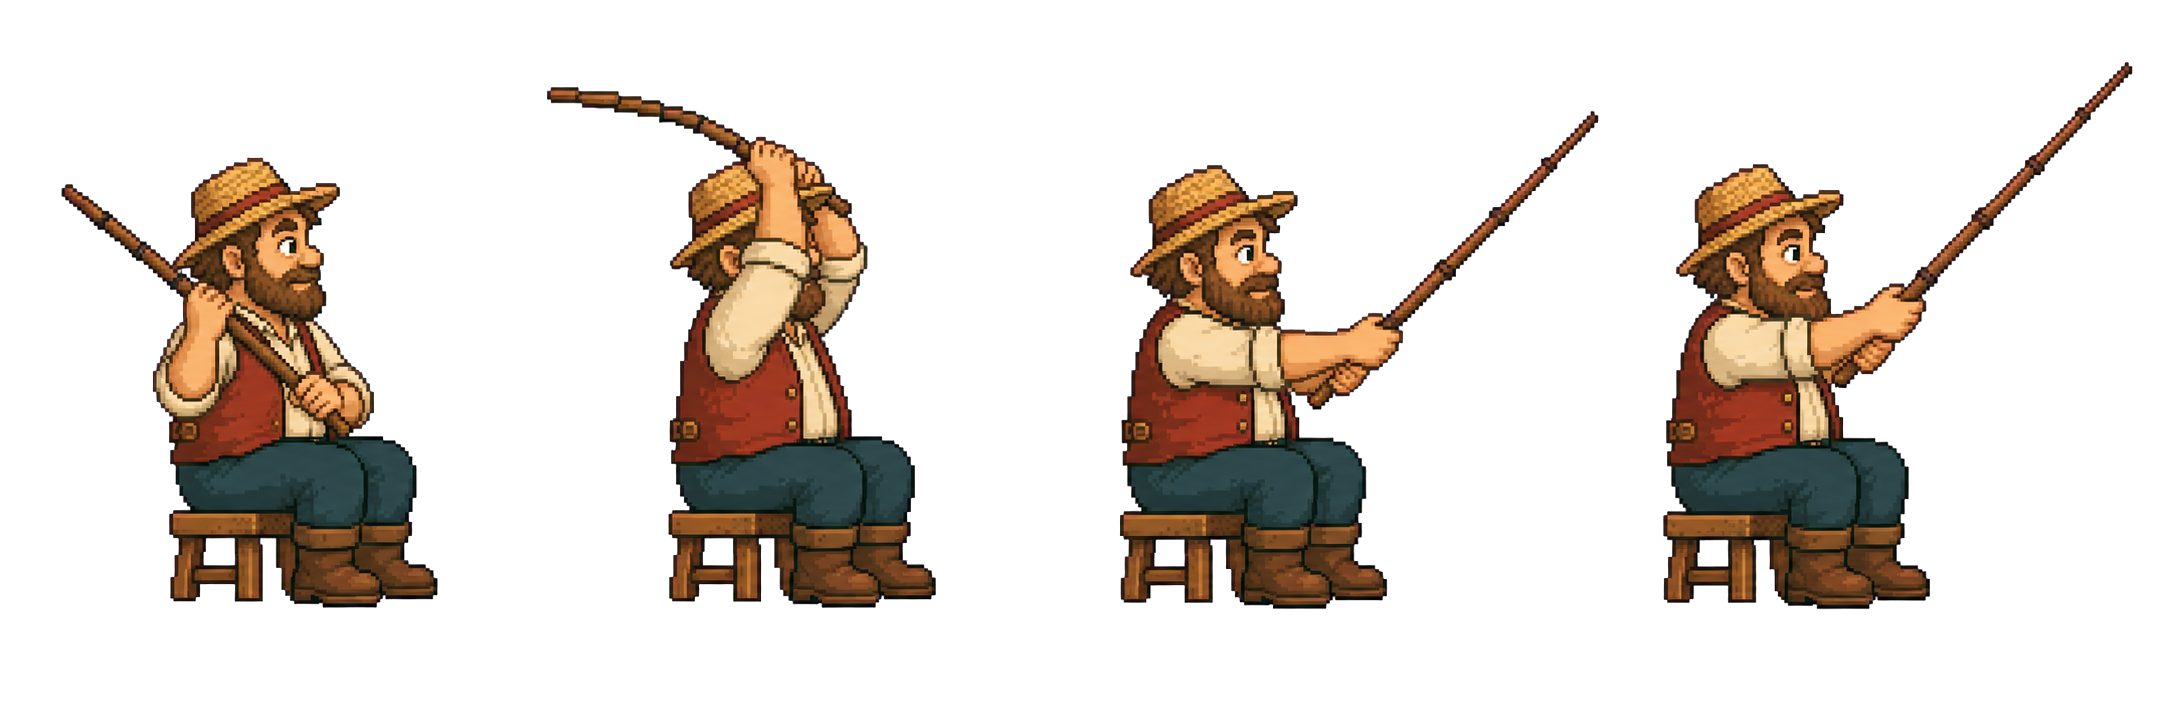
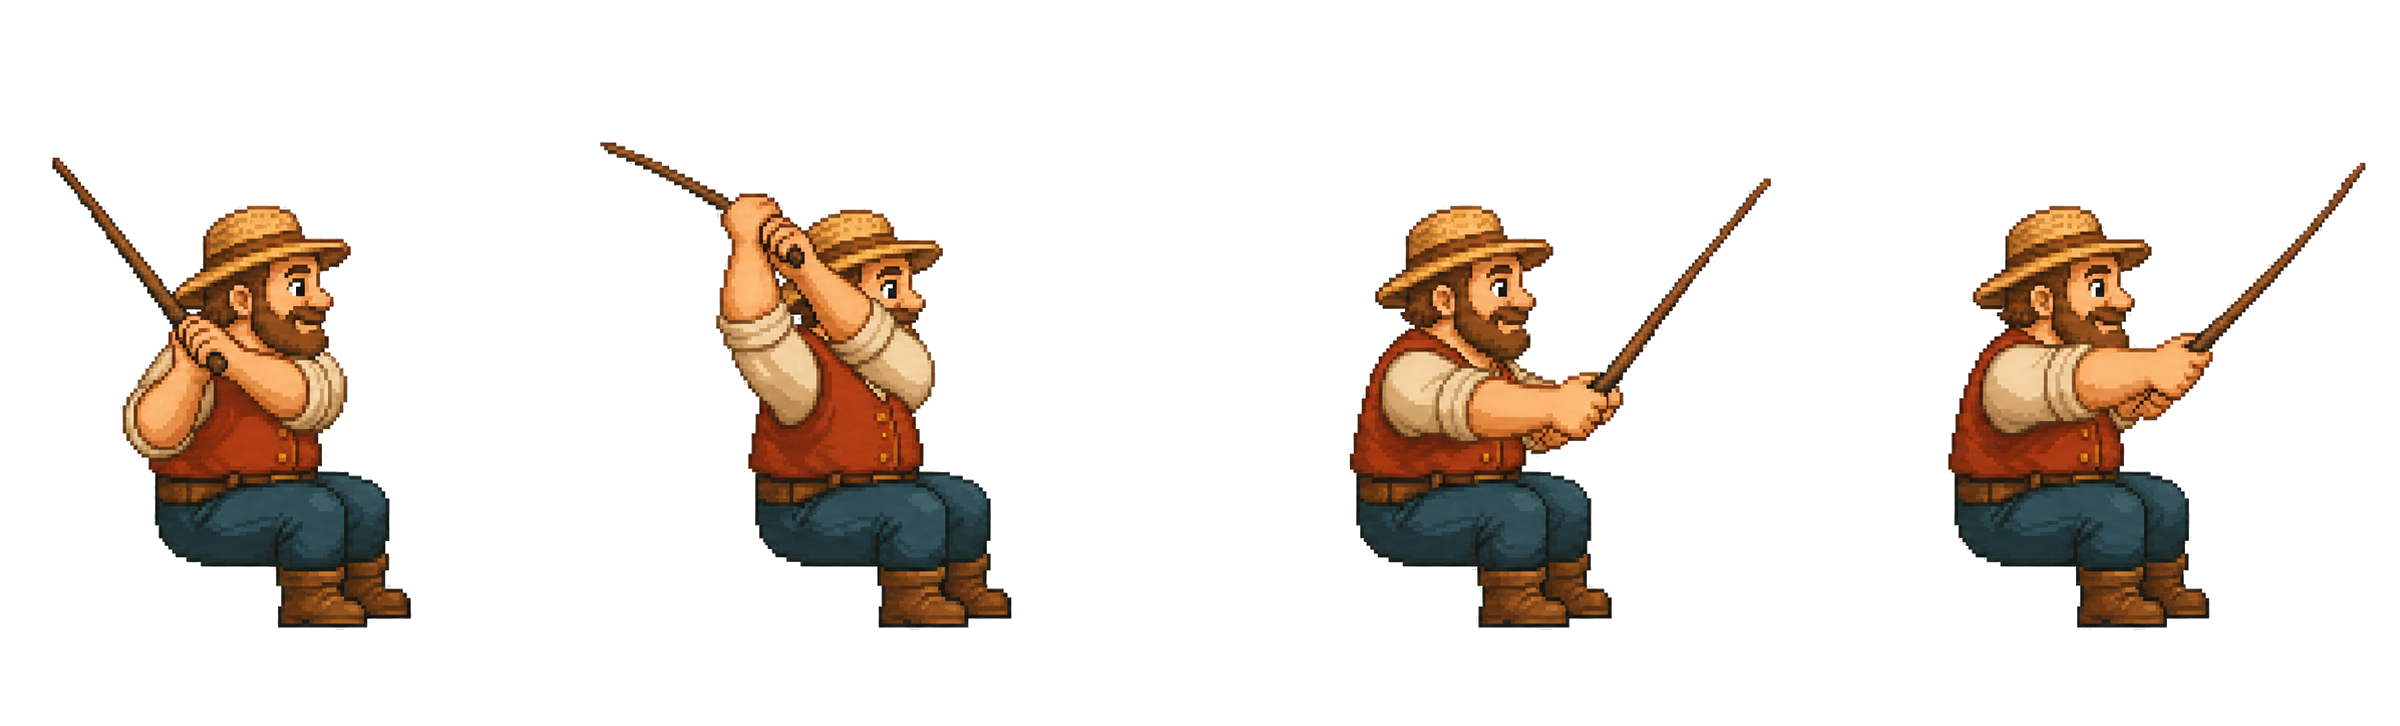
Stabilize fishing animation frames

diff --git a/webapp/src/fishing.ts b/webapp/src/fishing.ts
@@ -181,11 +181,12 @@ function updateFishingLine(): void {
   const sceneRect = scene.getBoundingClientRect();
   const fisherRect = fisher.getBoundingClientRect();
   const bobberRect = lakeBobber.getBoundingClientRect();
-  const startX = fisherRect.left - sceneRect.left + fisherRect.width * 0.91;
-  const startY = fisherRect.top - sceneRect.top + fisherRect.height * 0.2;
+  const startX = fisherRect.left - sceneRect.left + fisherRect.width * 0.94;
+  const startY = fisherRect.top - sceneRect.top + fisherRect.height * 0.28;
   const endX = bobberRect.left - sceneRect.left + bobberRect.width / 2;
   const endY = bobberRect.top - sceneRect.top + bobberRect.height / 2;
-  const bendY = startY + Math.max(10, (endY - startY) * 0.1);
+  const controlX = startX + (endX - startX) * 0.65;
+  const controlY = startY + (endY - startY) * 0.12;
 
   fishingLineOverlay.setAttribute(
     "viewBox",
@@ -193,7 +194,7 @@ function updateFishingLine(): void {
   );
   fishingLinePath.setAttribute(
     "d",
-    `M ${startX} ${startY} L ${endX} ${bendY} L ${endX} ${endY}`,
+    `M ${startX} ${startY} Q ${controlX} ${controlY} ${endX} ${endY}`,
   );
 }
 

diff --git a/webapp/src/fishing.css b/webapp/src/fishing.css
@@ -644,9 +644,9 @@ footer span {
 .fisher {
   bottom: 1%;
   left: 8%;
-  width: clamp(230px, 26vw, 320px);
+  width: clamp(255px, 29vw, 354px);
   height: auto;
-  aspect-ratio: 2 / 3;
+  aspect-ratio: 100 / 121;
   background-image: url("/assets/fishing/fisher-idle.png");
   background-position: 0 0;
   background-size: 400% 100%;
@@ -745,7 +745,7 @@ footer span {
   .fisher {
     bottom: 1%;
     left: -4%;
-    width: 270px;
+    width: 300px;
     height: auto;
     transform: none;
   }
@@ -754,7 +754,7 @@ footer span {
 @media (max-width: 430px) {
   .fisher {
     left: -14%;
-    width: 250px;
+    width: 280px;
     height: auto;
   }
 }
